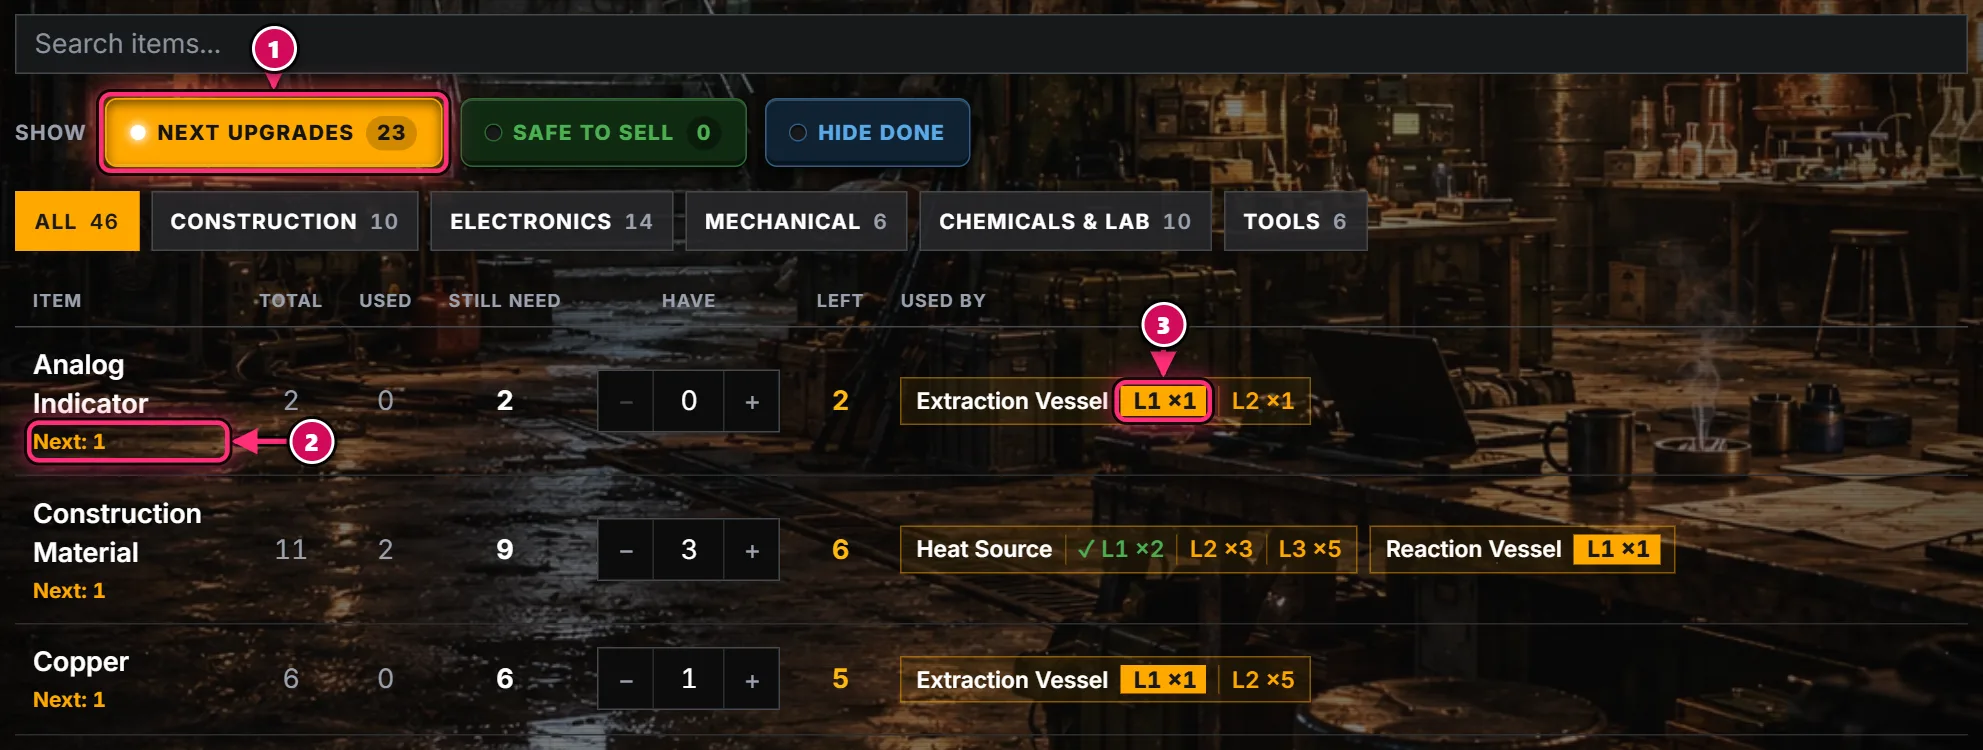
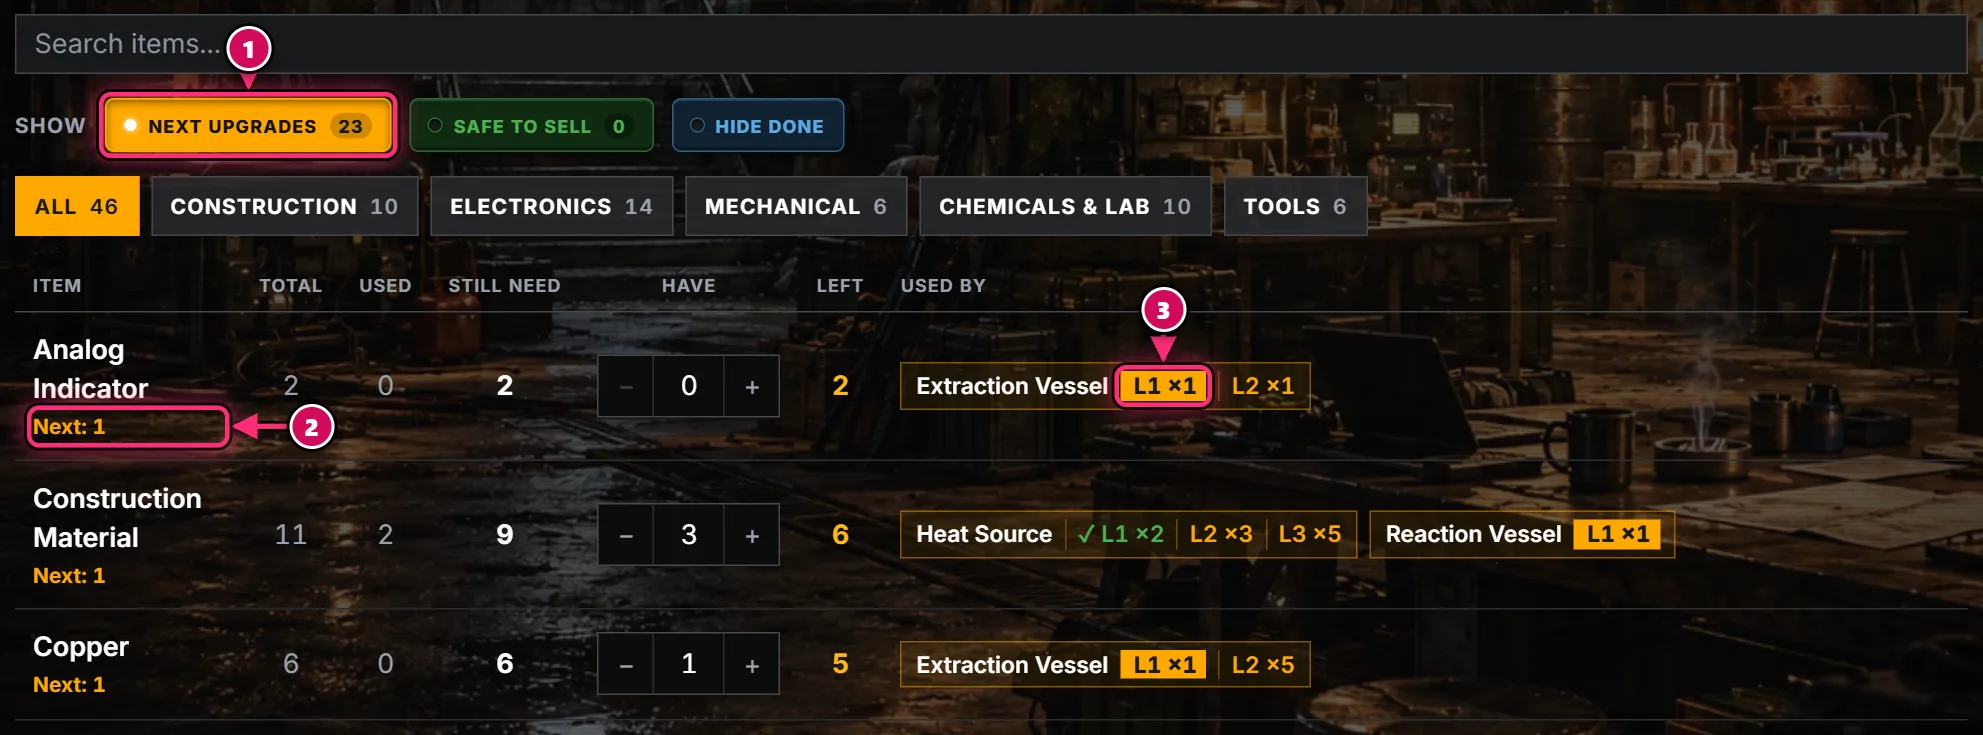
Safe to sell: clear keep list, calmer buttons, darker backgrounds
Changes:
- Safe to sell shows "Keep N" with one line per level not built yet,
  e.g. "2 for Glassware L2", linked to the station, with a note when
  the items are already set aside (or only part way)
- Built levels never count; when every level is built it says
  "Keep none" so the whole stack can be sold
- Sell numbers are normal size; Mark as sold and the three push
  buttons are smaller with softer shadows and glow
- A light dark layer over every page background
- Guide: Selling extras explains keep / sell with an example, new
  pointer on the keep list, screenshots retaken

diff --git a/src/styles/components/_shopping.scss b/src/styles/components/_shopping.scss
@@ -62,24 +62,23 @@
   display: inline-flex;
   align-items: center;
   gap: space('2');
-  min-height: 46px;
-  padding: 0 space('4');
+  min-height: 36px;
+  padding: 0 space('3');
   font-family: font('ui');
-  font-size: fs('xs');
+  font-size: fs('xxs');
   font-weight: 800;
   letter-spacing: 0.06em;
   text-transform: uppercase;
   color: var(--c);
   background: var(--dk);
   border: 1px solid var(--ed);
-  border-radius: 8px;
+  border-radius: 6px;
   cursor: pointer;
-  // Up: shadow around it, light top edge, dark bottom edge
+  // Up: small shadow, light top edge, dark bottom edge
   box-shadow:
-    0 4px 10px rgb(0 0 0 / 0.85),
-    0 1px 0 rgb(0 0 0 / 0.9),
-    inset 0 1px 0 rgb(255 255 255 / 0.18),
-    inset 0 -3px 0 rgb(0 0 0 / 0.4);
+    0 2px 5px rgb(0 0 0 / 0.6),
+    inset 0 1px 0 rgb(255 255 255 / 0.12),
+    inset 0 -2px 0 rgb(0 0 0 / 0.35);
   @include focus-ring;
 
   @include motion {
@@ -101,9 +100,9 @@
     background: var(--c);
     border-color: var(--c);
     box-shadow:
-      0 0 18px -2px var(--c),
-      inset 0 3px 7px rgb(0 0 0 / 0.55),
-      inset 0 -1px 0 rgb(255 255 255 / 0.25);
+      0 0 8px -2px var(--c),
+      inset 0 2px 5px rgb(0 0 0 / 0.45),
+      inset 0 -1px 0 rgb(255 255 255 / 0.2);
 
     @include motion {
       transform: scale(0.985);
@@ -115,8 +114,8 @@
   // Small lamp: dark when up, bright white when pushed
   &__lamp {
     flex: none;
-    width: 10px;
-    height: 10px;
+    width: 8px;
+    height: 8px;
     border-radius: 50%;
     background: #1a1a1a;
     box-shadow: inset 0 1px 2px rgb(0 0 0 / 0.9), 0 0 0 1px var(--ed);
@@ -124,12 +123,12 @@
 
   &[aria-pressed='true'] &__lamp {
     background: #fff;
-    box-shadow: 0 0 6px 2px rgb(255 255 255 / 0.8);
+    box-shadow: 0 0 4px 1px rgb(255 255 255 / 0.6);
   }
 
   // Count in a small pill, readable in both states
   &__n {
-    padding: 1px 7px;
+    padding: 0 6px;
     border-radius: 999px;
     background: rgb(0 0 0 / 0.35);
   }
@@ -262,7 +261,6 @@
   }
 
   &__extra {
-    font-size: fs('lg');
     font-weight: 800;
     color: color('ok');
   }
@@ -271,38 +269,109 @@
     text-align: right;
   }
 
+  // "Keep 2", then one line per level not built yet: "1 for Glassware L1"
+  &__keep-head {
+    margin-bottom: space('1');
+    font-family: font('ui');
+    font-size: fs('xxs');
+    font-weight: 800;
+    letter-spacing: 0.06em;
+    text-transform: uppercase;
+    color: color('text-dim');
+  }
+
+  &__keep-list {
+    display: grid;
+    gap: 2px;
+    margin: 0;
+    padding: 0;
+    list-style: none;
+
+    li {
+      display: flex;
+      flex-wrap: wrap;
+      align-items: center;
+      gap: 0 space('2');
+    }
+  }
+
+  &__keep-line {
+    font-size: fs('xs');
+    color: color('text');
+    text-decoration: none;
+    @include focus-ring;
+
+    b {
+      font-family: font('ui');
+      font-weight: 800;
+    }
+
+    @include hover {
+      text-decoration: underline;
+    }
+  }
+
+  // Station and level in the room colour, like the tags elsewhere
+  &__keep-st {
+    font-weight: 700;
+    color: var(--room);
+  }
+
+  &__keep-set {
+    display: inline-flex;
+    align-items: center;
+    gap: 3px;
+    font-size: fs('xxs');
+    font-weight: 700;
+    color: color('ok');
+
+    svg {
+      width: 12px;
+      height: 12px;
+    }
+
+    &.is-part {
+      color: color('text-dim');
+    }
+  }
+
+  &__keep-none {
+    font-size: fs('xs');
+    color: color('text-dim');
+  }
+
   // A real raised button, same family as the push buttons above:
   // rounded, bevel on top, dark edge below, shadow under it.
   // Hover lifts it a little, pressing sinks it in.
   &__sold {
     display: inline-flex;
     align-items: center;
-    gap: space('2');
-    min-height: 34px;
-    padding: 0 space('3');
+    gap: space('1');
+    min-height: 28px;
+    padding: 0 space('3') 0 space('2');
     font-family: font('ui');
-    font-size: fs('xs');
+    font-size: fs('xxs');
     font-weight: 800;
-    letter-spacing: 0.06em;
+    letter-spacing: 0.05em;
     text-transform: uppercase;
     white-space: nowrap;
     color: #0c0c0c;
     background: linear-gradient(#6fcf73, color('ok'));
     border: 1px solid #2b6a2f;
-    border-radius: 8px;
+    border-radius: 6px;
     cursor: pointer;
     box-shadow:
-      0 4px 10px rgb(0 0 0 / 0.75),
-      inset 0 1px 0 rgb(255 255 255 / 0.45),
-      inset 0 -3px 0 rgb(0 0 0 / 0.25);
+      0 2px 5px rgb(0 0 0 / 0.6),
+      inset 0 1px 0 rgb(255 255 255 / 0.4),
+      inset 0 -2px 0 rgb(0 0 0 / 0.2);
     @include focus-ring;
 
     // Check mark in a dark circle, like a "done" stamp
     svg {
       flex: none;
-      width: 16px;
-      height: 16px;
-      padding: 3px;
+      width: 14px;
+      height: 14px;
+      padding: 2px;
       color: color('ok');
       background: #0f2a12;
       border-radius: 50%;
@@ -318,14 +387,14 @@
       filter: brightness(1.12);
       border-color: #fff;
       box-shadow:
-        0 0 0 2px rgb(255 255 255 / 0.9),
-        0 0 16px 2px rgb(76 175 80 / 0.7),
-        0 6px 12px rgb(0 0 0 / 0.75),
-        inset 0 1px 0 rgb(255 255 255 / 0.45),
-        inset 0 -3px 0 rgb(0 0 0 / 0.25);
+        0 0 0 2px rgb(255 255 255 / 0.85),
+        0 0 10px 1px rgb(76 175 80 / 0.55),
+        0 3px 8px rgb(0 0 0 / 0.6),
+        inset 0 1px 0 rgb(255 255 255 / 0.4),
+        inset 0 -2px 0 rgb(0 0 0 / 0.2);
 
       @include motion {
-        transform: translateY(-2px);
+        transform: translateY(-1px);
       }
     }
 
@@ -528,7 +597,7 @@
   // and its Mark as sold button sit close together
   &--sell {
     @include up('lg') {
-      max-width: 860px;
+      max-width: 1080px;
       margin-inline: auto;
 
       th,
@@ -553,7 +622,10 @@
       grid-template-areas:
         'name  name  name  name'
         'total used  need  havn'
+        'keep  keep  keep  keep'
         'extra extra act   act';
+
+      .shop__keep { grid-area: keep; }
 
       .shop__havn  { grid-area: havn; }
 

diff --git a/src/js/views/guide.js b/src/js/views/guide.js
@@ -19,9 +19,9 @@ const SHOTS = {
   item: [845, 291],
   'panel-foot': [905, 324],
   confirm: [750, 543],
-  shopping: [1995, 730],
-  'shopping-next': [1983, 750],
-  'shopping-sell': [1983, 611],
+  shopping: [1995, 715],
+  'shopping-next': [1983, 735],
+  'shopping-sell': [1983, 978],
   'phone-card': [561, 363],
   power: [1053, 209],
   'power-gen': [911, 663],
@@ -235,14 +235,22 @@ export function renderGuide(el) {
           <section class="guide__part" tabindex="-1" id="sell">
             <h2>${icon('check')}Selling extras</h2>
             <p>Stash getting crowded? The green <b>Safe to sell</b> button shows every item you have more of than the hideout will ever need, and exactly how many you can let go.</p>
-            ${shot('shopping-sell', 'The Shopping List with the green Safe to sell button pushed in, showing one short row per item: total, used, still need, have, how many to sell, and a Mark as sold button', 'Steel: 100 in storage, 86 still needed, so 14 can go.', 'wide')}
+            ${shot('shopping-sell', 'The Shopping List with the green Safe to sell button pushed in, showing one short row per item: total, used, still need, have, how many to sell, and a Mark as sold button', 'Copper: 20 in storage, 6 kept for Extraction Vessel, so 14 can go.', 'wide')}
             ${marks([
               '<b>Safe to sell, pushed in.</b> Lit up green means you are looking at extras only. The number on it says how many items have extras.',
-              '<b>Sell.</b> How many of this item you can sell. Big and green so you cannot miss it.',
+              '<b>Sell.</b> How many of this item you can sell, in green.',
+              '<b>Keep for.</b> How many to keep, and exactly which level wants each one, like <b>2 for Glassware L2</b>. Click a line to open that station.',
               '<b>Mark as sold.</b> Press it after you sell them in game.',
             ])}
-            <p>This view is kept short on purpose. You get just the numbers that matter for selling: <b>Total</b>, <b>Used</b>, <b>Still need</b>, what you <b>Have</b> and how many to <b>Sell</b>. The station tags and the − / + buttons are hidden here, and the rows take turns light and dark so your eye stays on the right line. On a computer the list sits in the middle of the page, so the item name and its button are close together.</p>
-            <p>The math is simple. We take what you have, subtract what every station you have not built yet still needs, and whatever is left over shows as <b>Sell</b>. An item only shows up here once every level that uses it is covered, across all three rooms. If even one level still wants it, it stays off the list.</p>
+            <p>Each row answers three questions: how many can I sell, how many do I keep, and who are they for. Here is an example:</p>
+            <dl class="guide__terms">
+              <div><dt>You have</dt><dd>20 Glass.</dd></div>
+              <div><dt>Keep 10</dt><dd>2 for Glassware L2, 3 for Storage Equipment (Lab) L2 and 5 for Storage Equipment (Lab) L3.</dd></div>
+              <div><dt>Sell 10</dt><dd>Everything else. Nothing in the hideout will ever ask for it.</dd></div>
+            </dl>
+            <p>Only levels you have <b>not built yet</b> count. Levels you already built used their items up, so they never show here. If a level already has its items set aside, the line says <b>set aside</b> (or <b>1 of 3 set aside</b> when it is only part way). If every level that uses an item is built, it says <b>Keep none</b> and you can sell them all.</p>
+            ${tip('Keep what the list says even if you cannot build that level yet. You may still be missing other items for it, but these ones will be waiting.')}
+            <p>An item only shows up here once you have more than every level not built yet needs, across all three rooms. If even one level is still short, it stays off the list.</p>
             <p>Sold it in game? Hit <b>Mark as sold</b>. Your storage drops to exactly what the hideout still needs, a short message confirms it, and the item leaves the list. No retyping. Sold only part of it? Pop the green button back out and type the new amount in <b>Have</b>.</p>
             ${tip('This only counts the hideout. If you also need an item for something else in the game, hold on to it.')}
             <p>The yellow and green buttons pop each other out, since one means "I still need this" and the other means "I don't". <b>Hide done</b> works with either.</p>

diff --git a/src/js/views/shopping.js b/src/js/views/shopping.js
@@ -185,6 +185,7 @@ function body() {
           <th class="num" title="What you have in storage">Have</th>
           ${sell
             ? `<th class="num" title="Have minus still need: the extra you can sell">Sell</th>
+               <th title="What to keep, and which level not built yet needs it">Keep for</th>
                <th><span class="sr-only">Mark as sold</span></th>`
             : `<th class="num" title="Still need minus what you have">Left</th>
                <th>Used by</th>`}
@@ -230,9 +231,30 @@ function row(r, i, next, sell) {
     </tr>`;
 }
 
+// What to keep and why: one line per level not built yet, e.g.
+// "1 for Glassware L1". Built levels are left out (their items are
+// already used up). Says when the items are already set aside.
+function keepList(r) {
+  const open = r.uses.filter((u) => !u.built);
+  if (!open.length) return '<p class="shop__keep-none">Keep none. Every level that uses it is built.</p>';
+  const lines = open
+    .map((u) => {
+      const ready =
+        u.have >= u.qty
+          ? `<span class="shop__keep-set">${icon('check')}set aside</span>`
+          : u.have > 0
+            ? `<span class="shop__keep-set is-part">${u.have} of ${u.qty} set aside</span>`
+            : '';
+      return `<li><a class="shop__keep-line u-room-${u.roomId}" href="#${u.stationId}" title="Open ${esc(stationLabel(u))}">
+                <b>${u.qty}</b> for <span class="shop__keep-st">${esc(stationLabel(u))} L${u.step}</span></a>${ready}</li>`;
+    })
+    .join('');
+  return `<p class="shop__keep-head">Keep ${r.need}</p><ul class="shop__keep-list">${lines}</ul>`;
+}
+
 // Safe to sell: only the numbers that matter for selling, read only.
-// Total, used, still need, what you have, and how many you can sell,
-// then the "Mark as sold" button.
+// Total, used, still need, what you have, how many you can sell,
+// what to keep and for which level, then "Mark as sold".
 function sellRow(r, i) {
   const name = esc(r.name);
   return `
@@ -243,6 +265,7 @@ function sellRow(r, i) {
       <td class="num shop__need" data-label="Still need">${r.need}</td>
       <td class="num shop__havn" data-label="Have">${r.storage}</td>
       <td class="num shop__extra" data-label="Sell">${r.extra}</td>
+      <td class="shop__keep">${keepList(r)}</td>
       <td class="shop__act">
         <button class="shop__sold" type="button" data-action="store-sold" data-item="${name}"
                 title="I sold the extra: keep only what the hideout still needs (${r.need})">${icon('check')}<span>Mark as sold</span></button>

diff --git a/src/styles/effects/_background.scss b/src/styles/effects/_background.scss
@@ -112,6 +112,11 @@
   &__vignette {
     position: absolute;
     inset: 0;
-    background: radial-gradient(ellipse at center, transparent 55%, rgba(0, 0, 0, 0.7));
+    // Dark edges, plus a light dim over the whole picture so the
+    // photo and room scenes stay visible but calmer. Raise the 0.22
+    // to make every background darker.
+    background:
+      radial-gradient(ellipse at center, transparent 55%, rgba(0, 0, 0, 0.7)),
+      rgb(0 0 0 / 0.22);
   }
 }
